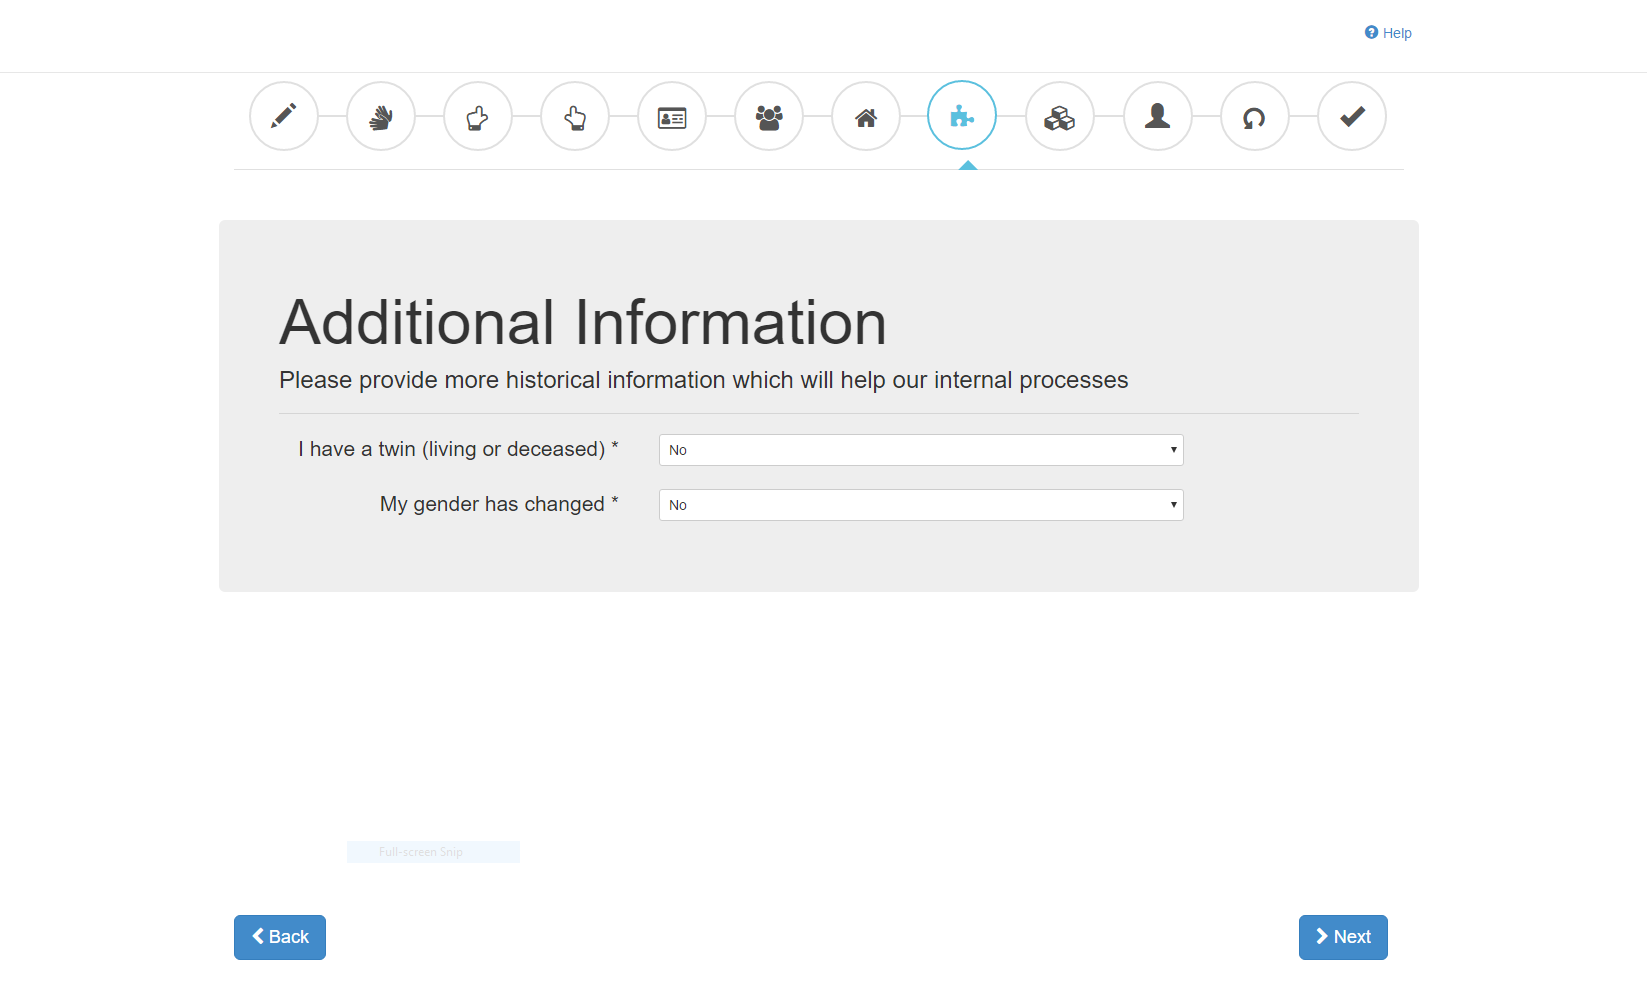
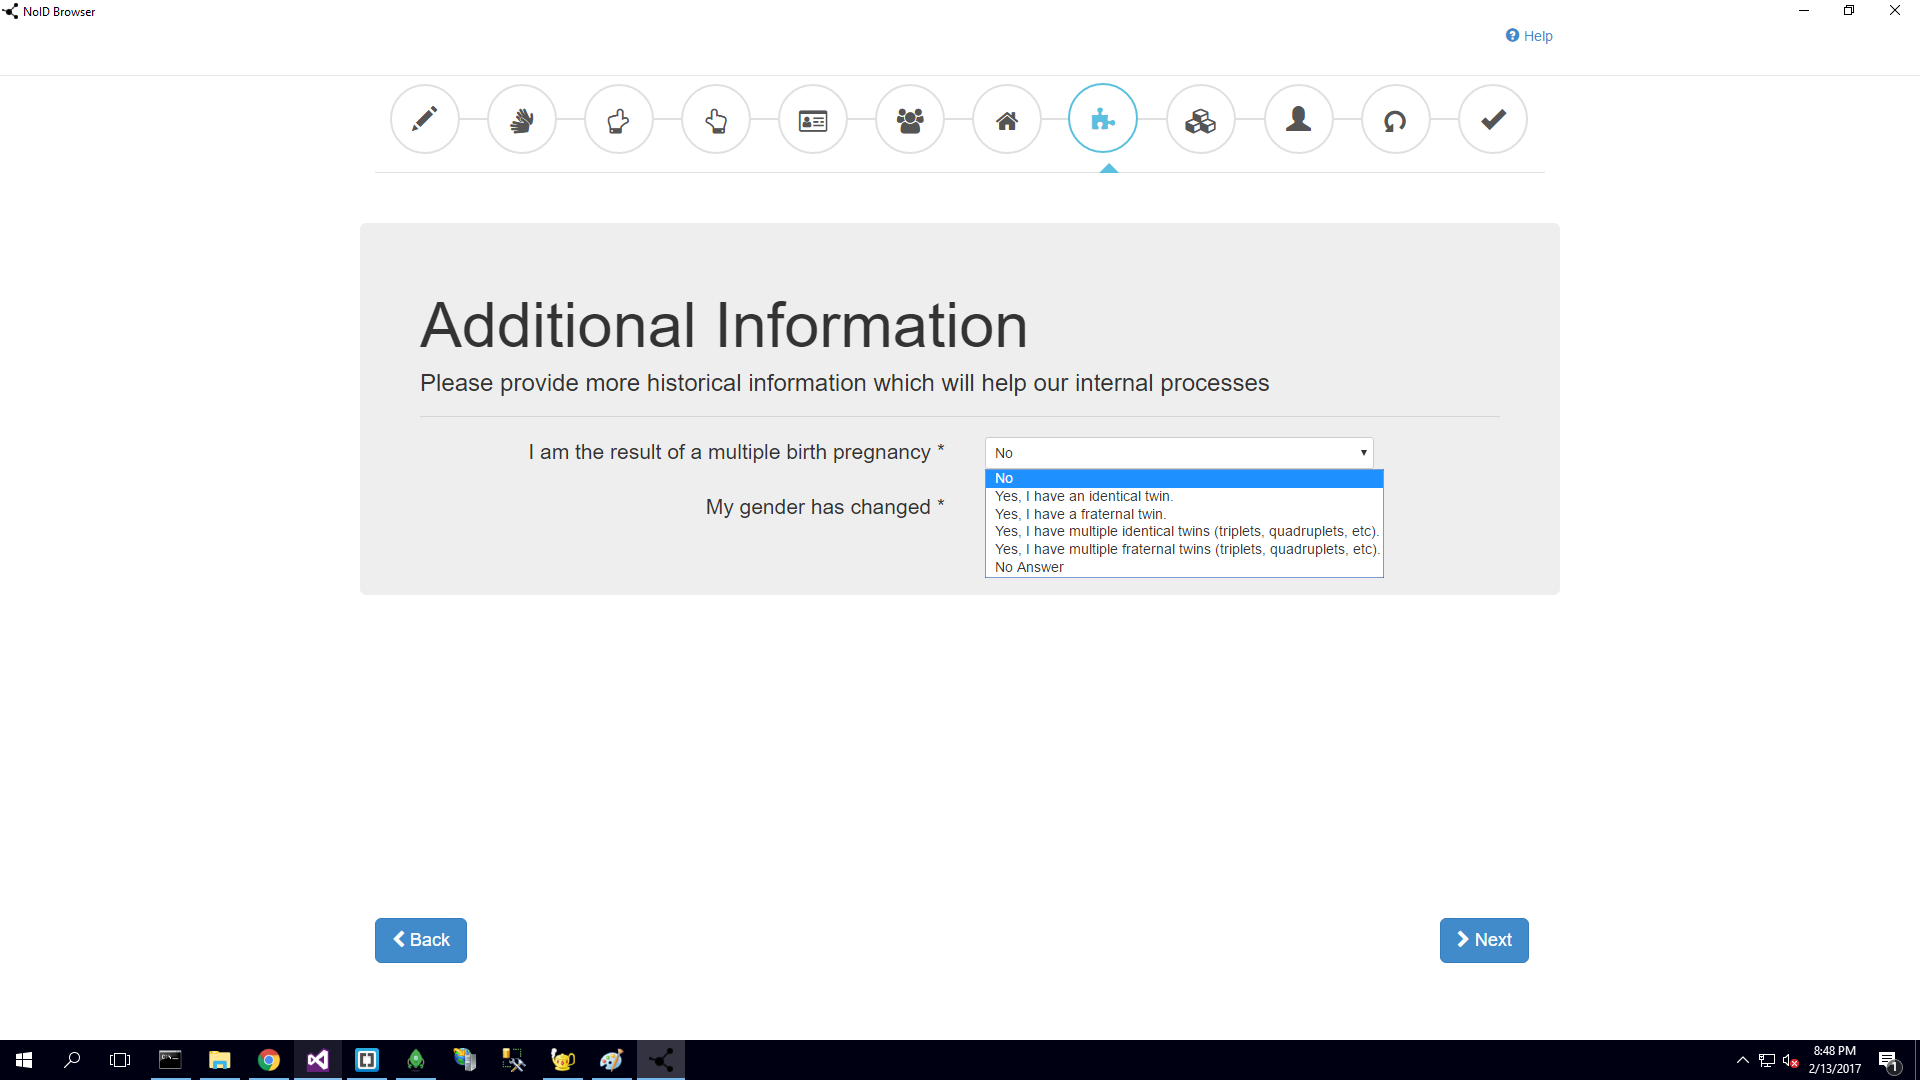
[UI] Update twin to multiple birth

diff --git a/source/noid/noid.browser/enrollment.html b/source/noid/noid.browser/enrollment.html
@@ -624,22 +624,25 @@
                                             </h3>
                                             <hr>
                                             <div class="row mar_ned">
-                                                <div class="col-md-4 col-xs-3">
-                                                    <p align="right"><stong>I have a twin (living or deceased) &#42;</stong></p>
+                                                <div class="col-md-6 col-xs-6">
+                                                    <p align="right"><stong>I am the result of a multiple birth pregnancy &#42;</stong></p>
                                                 </div>
-                                                <div class="col-md-8 col-xs-9">
+                                                <div class="col-md-6 col-xs-6">
                                                     <select name="visa_status" id="visa_status" class="dropselectsec1">
                                                         <option value="No">No</option>
-                                                        <option value="Yes">Yes</option>
+                                                        <option value="YesIdenticalTwin">Yes, I have an identical twin.</option>
+                                                        <option value="YesFraternalTwin">Yes, I have a fraternal twin.</option>
+                                                        <option value="YesIdenticalTriplets">Yes, I have multiple identical twins (triplets, quadruplets, etc).</option>
+                                                        <option value="YesFraternalTriplets">Yes, I have multiple fraternal twins (triplets, quadruplets, etc).</option>
                                                         <option value="NA">No Answer</option>
                                                     </select>
                                                 </div>
                                             </div>
                                             <div class="row mar_ned">
-                                                <div class="col-md-4 col-xs-3">
+                                                <div class="col-md-6 col-xs-6">
                                                     <p align="right"><stong>My gender has changed &#42;</stong></p>
                                                 </div>
-                                                <div class="col-md-8 col-xs-9">
+                                                <div class="col-md-6 col-xs-6">
                                                     <select name="visa_status" id="visa_status" class="dropselectsec1">
                                                         <option value="No">No</option>
                                                         <option value="Yes">Yes</option>
